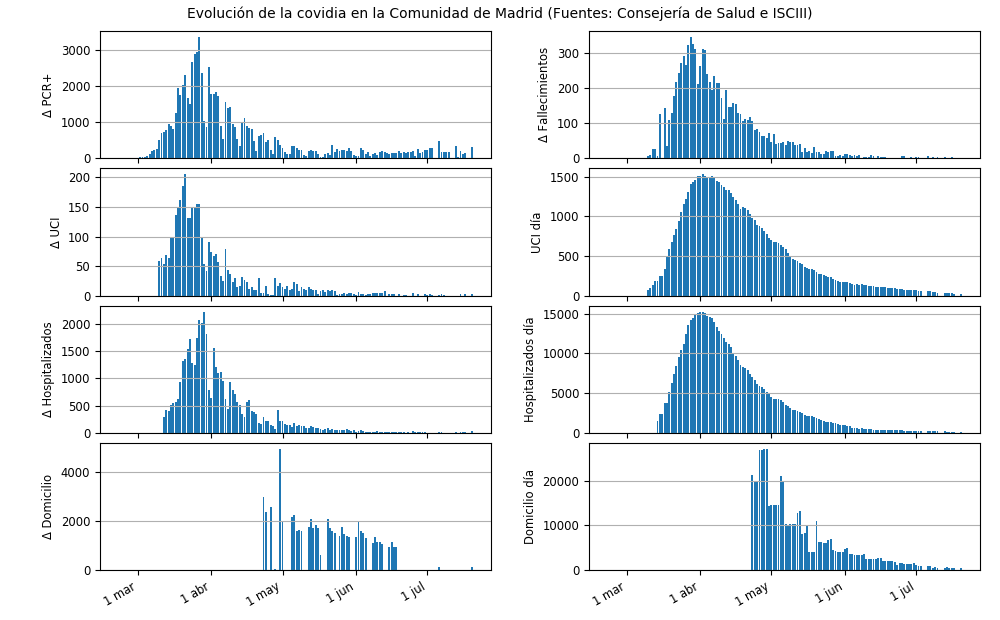
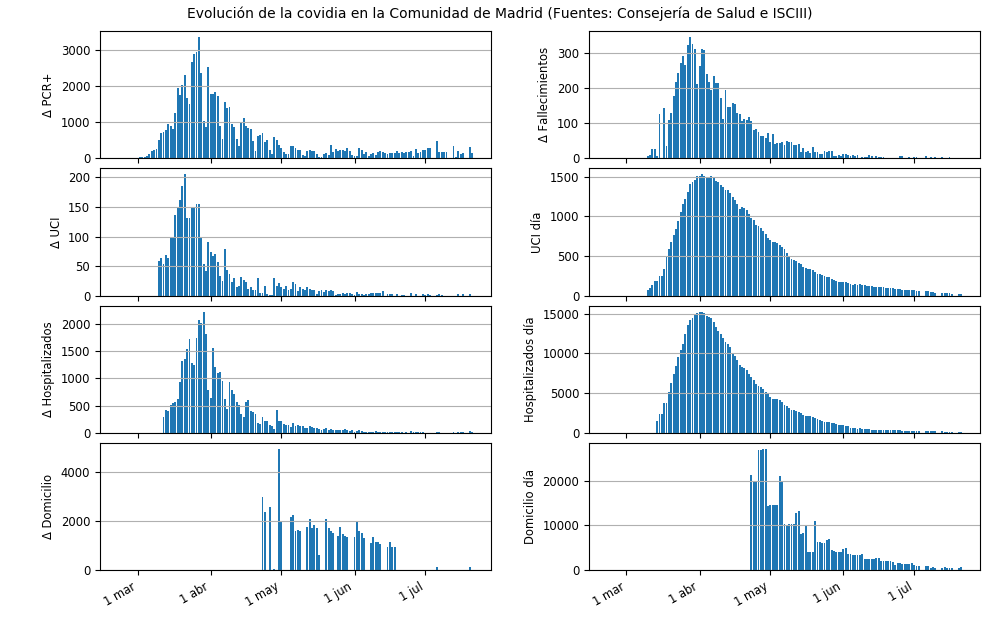
Actualizado con datos de PCR+

diff --git a/covidia-cam/descarga_cam.py b/covidia-cam/descarga_cam.py
@@ -25,8 +25,8 @@ import pandas as pd
 
 expnumber = re.compile(r'^ *(\d+(?: ?\. ?\d+)*)(?:[^\d/]|\s|\(|$|\.[^\d/]|\.\s|\.$)', re.M)
 
-expacum = re.compile(r'Acumulado([\d\s]+)')
 expfecha = re.compile(r'(\d\d)/(\d\d)/(\d\d\d\d)')
+expacum = re.compile(r'\n2 \n6 \n10 \n[\d \n]+')
 expnumber2 = re.compile(r'\d\d\d\d\d+')
 
 
@@ -66,6 +66,7 @@ def descargacam():
     for fn in sorted(glob(pdfdir + '20*_cam_covid19.pdf')):
         fn1 = fn.replace('.pdf', '_1.txt')
         fn2 = fn.replace('.pdf', '_2.txt')
+        fn3 = fn.replace('.pdf', '_3.txt')
         if not pth.isfile(fn1):
             print('Creating:', fn1)
             page1 = pdf_to_text(fn, pagenum=0)
@@ -76,6 +77,11 @@ def descargacam():
             page2 = pdf_to_text(fn, pagenum=1)
             with open(fn2, 'w', encoding='utf-8') as fp:
                 fp.write(page2)
+        if not pth.isfile(fn3):
+            print('Creating:', fn3)
+            page3 = pdf_to_text(fn, pagenum=2)
+            with open(fn3, 'w', encoding='utf-8') as fp:
+                fp.write(page3)
 
 
     for fn in sorted(glob(pdfdir + '20*_cam_covid19_1.txt')):
@@ -205,40 +211,57 @@ def descargacam():
     df2.to_csv(csvfn)
 
 
-    # Con el nuevo cambio de formato complicaba demasiado la lectura
-    # así que queda comentada por ahora
+    fn2 = sorted(glob(pdfdir + '20*_cam_covid19_2.txt'))[-1]
+    fn3 = fn2.replace('_2.txt', '_3.txt')
+    print(fn2)
+    with open(fn2, encoding='utf-8') as fp:
+        text = fp.read()
 
-    # fn = sorted(glob(pdfdir + '20*_cam_covid19_2.txt'))[-1]
-    # print(fn)
-    # with open(fn, encoding='utf-8') as fp:
-    #     text = fp.read()
+    m = expacum.search(text)
 
-    # for m in expacum.finditer(text):
-    #     group1 = m.group(1)
-    #     if group1.strip():
-    #         break
-    # numbers = [int(x) for x in group1.split()]
+    assert m, 'Debe ajustarse expacum con los primeros valores'
 
-    # for m2 in expnumber2.finditer(text, pos=m.end()):
-    #     numbers.append(int(m2.group()))
+    accum = [int(x) for x in m.group().split()]
 
-    # dates = []
-    # for m in expfecha.finditer(text):
-    #     dates.append(dt.datetime(int(m.group(3)), int(m.group(2)),
-    #                              int(m.group(1))))
+    dates = []
+    for m in expfecha.finditer(text):
+        dates.append(dt.datetime(int(m.group(3)), int(m.group(2)),
+                                 int(m.group(1))))
+
+    accum2 = [int(x.group()) for x in expnumber2.finditer(text)
+              if int(x.group()) > accum[-1]]
+    accum += accum2
+
+    assert len(accum) == len(dates), 'La serie acumulada no concuerda para _2'
 
 
-    # sr = pd.Series(numbers, index=dates)
-    # sr.name = 'PCR+'
-    # sr.index.name = 'Fecha'
-    # df3 = sr.to_frame()
+    print(fn3)
+    with open(fn3, encoding='utf-8') as fp:
+        text = fp.read()
 
-    # if df2.index[-1] != df3.index[-1] + dt.timedelta(1):
-    #     raise RuntimeError('Última fecha de las tablas no coincide')
+    for m in expfecha.finditer(text):
+        dates.append(dt.datetime(int(m.group(3)), int(m.group(2)),
+                                 int(m.group(1))))
 
-    # csvfn = datadir + 'madrid-pcr.csv'
-    # print('Escribiendo', csvfn)
-    # df3.to_csv(csvfn)
+    accum2 = [int(x.group()) for x in expnumber2.finditer(text)]
+    accum += accum2
+
+    assert len(accum) == len(dates), 'La serie acumulada no concuerda para _3'
+
+    sr = pd.Series(accum, index=dates)
+    sr.name = 'PCR+'
+    sr.index.name = 'Fecha'
+    df3 = sr.to_frame()
+
+    if df2.index[-1] != df3.index[-1] + dt.timedelta(1):
+        raise RuntimeError('Última fecha de las tablas no coincide')
+
+    assert all(sr.diff().dropna() >= 0), 'La serie acumulada no es creciente'
+    assert all((sr.index[1:] - sr.index[:-1]).days > 0), 'Fechas no suben'
+
+    csvfn = datadir + 'madrid-pcr.csv'
+    print('Escribiendo', csvfn)
+    df3.to_csv(csvfn)
 
 
     print('ESTÁ ACTUALIZADO' if today == df.columns[-1].date() else
